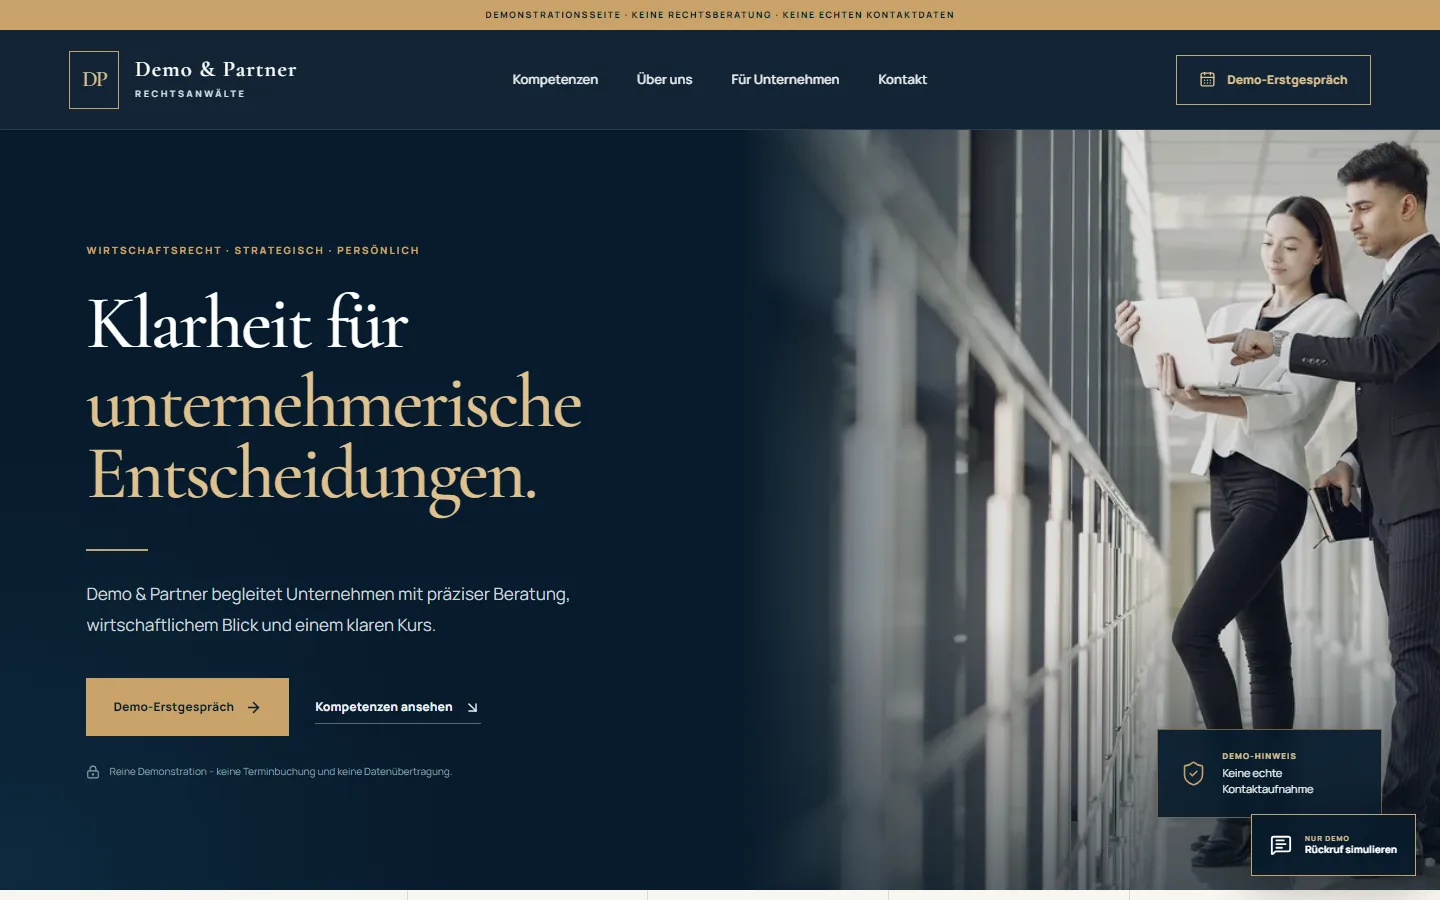
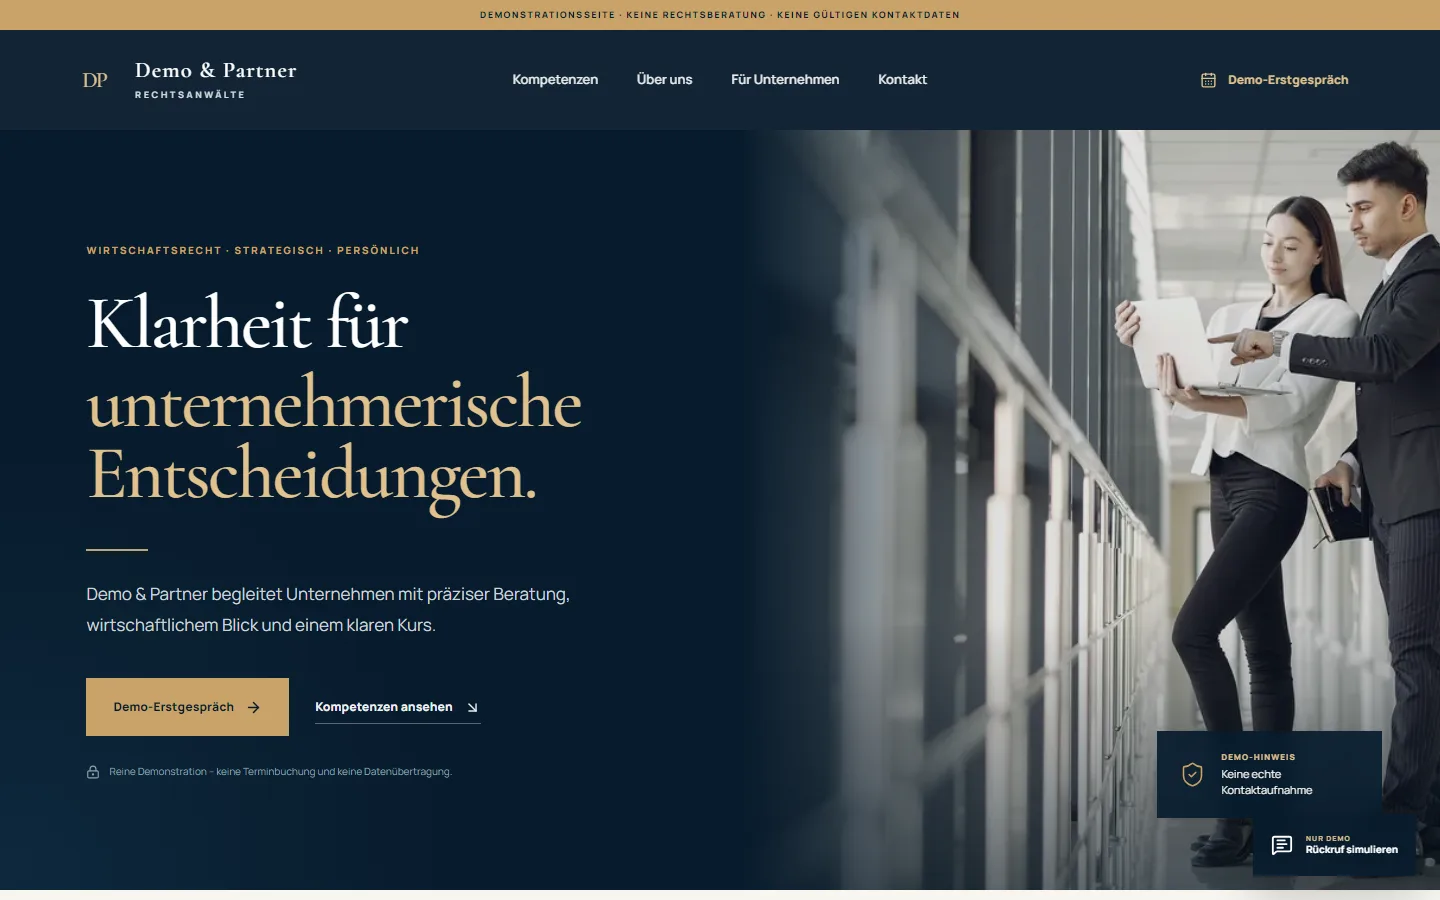
0.66.0 — the drawn cursor is the only cursor, a quicker scrollbar, fresh demos
- The native pointer is hidden on the whole page while the custom cursor
  runs; dot and ring are manual popovers in the top layer and re-raised
  when a dialog or popover opens, so a modal never covers the only cursor.
- Floating scrollbar: springs at 0.16–0.18 s, a navy pill with the site's
  hard shadow (bordeaux while held). Hidden it now stops at the window
  edge; 0.64 pushed it 4px past it, which audit:ux caught as overflow.
- Keyboard pass over the home page (117 tab stops, none hidden; assistant,
  service list, FAQ, lightbox, price switch, a11y tools, shelf, mobile
  menu all operable) — no change needed beyond the overflow.
- demos:sync: new captures of demo1/demo3, demo3's SVG icon. demo4/demo5
  stay hidden (certificate expired / wrong name).

diff --git a/src/components/islands/CustomCursor.tsx b/src/components/islands/CustomCursor.tsx
@@ -10,6 +10,14 @@ import { absorbStep, actionTarget, CURSOR_ABSORB_ATTR } from "~/lib/cursorAbsorb
  * ones) by sampling the background luminance under the pointer, mirroring the
  * approach in FloatingCta.astro. The native cursor stays visible underneath.
  *
+ * It IS the cursor (2026-10-05): while it runs the native pointer is hidden
+ * on the whole page (`data-cursor-absorb` in `styles/global.css`), and the
+ * dot — pinned to the pointer, so it is the hotspot — is what the visitor
+ * aims with. Ring and dot are MANUAL POPOVERS so they live in the top layer:
+ * a modal dialog or the accessibility popover is in the top layer too and
+ * would otherwise cover the only visible cursor. Each time something enters
+ * the top layer they are re-shown, which puts them back on top of it.
+ *
  * Over a button that performs an action it DISAPPEARS INTO it (2026-10-05,
  * `lib/cursorAbsorb.ts`): dot and ring fly to the button's centre and shrink
  * to nothing on a spring, the native pointer is hidden there, and on leaving
@@ -36,6 +44,35 @@ export default function CustomCursor() {
     // so touch and reduced motion keep it.
     const root = document.documentElement;
     root.setAttribute(CURSOR_ABSORB_ATTR, "");
+
+    // Into the top layer, and back on top whenever a dialog or popover opens
+    // after them. No popover support: they stay ordinary fixed elements, and
+    // the CSS keeps the native pointer over a modal (see global.css).
+    const canPopover = typeof ring.showPopover === "function";
+    const raise = () => {
+      if (!canPopover) return;
+      for (const el of [ring, dot]) {
+        try {
+          if (el.matches(":popover-open")) el.hidePopover();
+          el.showPopover();
+        } catch {
+          // A popover that is mid-transition or detached refuses; harmless.
+        }
+      }
+    };
+    raise();
+    // A modal opened with showModal() sets `open`; popovers fire `toggle`,
+    // which does not bubble — hence capture.
+    const topLayerWatch = new MutationObserver((records) => {
+      if (records.some((r) => r.target instanceof HTMLDialogElement && r.target.open)) raise();
+    });
+    topLayerWatch.observe(document.body, { subtree: true, attributes: true, attributeFilter: ["open"] });
+    const onToggle = (event: Event) => {
+      const target = event.target;
+      if (target === ring || target === dot) return;
+      if ((event as ToggleEvent).newState === "open") raise();
+    };
+    document.addEventListener("toggle", onToggle, true);
 
     let mouseX = window.innerWidth / 2;
     let mouseY = window.innerHeight / 2;
@@ -215,6 +252,8 @@ export default function CustomCursor() {
 
     return () => {
       root.removeAttribute(CURSOR_ABSORB_ATTR);
+      topLayerWatch.disconnect();
+      document.removeEventListener("toggle", onToggle, true);
       cancelAnimationFrame(raf);
       window.removeEventListener("mousemove", onMove);
       document.removeEventListener("mouseleave", onLeave);
@@ -239,12 +278,14 @@ export default function CustomCursor() {
           inside the circle, which is what the preview is for. */}
       <div
         ref={ringRef}
+        popover="manual"
         className="tds-cursor-ring"
         aria-hidden="true"
         data-theme-preview="skip"
       />
       <div
         ref={dotRef}
+        popover="manual"
         className="tds-cursor-dot"
         aria-hidden="true"
         data-theme-preview="skip"

diff --git a/src/styles/global.css b/src/styles/global.css
@@ -498,36 +498,47 @@ html:has(body[data-lenis="on"]) {
   height: 24px;
   background-color: color-mix(in srgb, var(--cursor-tint) 42%, transparent);
 }
-/* The cursor disappears into an action control (lib/cursorAbsorb.ts): while
-   the custom cursor runs, the native pointer is hidden over the same targets
-   `ACTION_SELECTOR` names, so the drawn dot and ring are the only cursor —
-   and they fly into the button. Descendants too: an icon or label inside a
-   button would otherwise bring back its own `cursor: pointer`. Keep this list
-   in step with `ACTION_SELECTOR`; `cursorAbsorb.test.ts` compares them. */
-html[data-cursor-absorb]
-  :is(
-    button:not(:disabled),
-    [role="button"],
-    input[type="submit"]:not(:disabled),
-    input[type="button"]:not(:disabled),
-    input[type="reset"]:not(:disabled),
-    summary,
-    .btn,
-    [data-cta]
-  ):not(.page-scrollbar *),
-html[data-cursor-absorb]
-  :is(
-    button:not(:disabled),
-    [role="button"],
-    input[type="submit"]:not(:disabled),
-    input[type="button"]:not(:disabled),
-    input[type="reset"]:not(:disabled),
-    summary,
-    .btn,
-    [data-cta]
-  ):not(.page-scrollbar *)
-  * {
-  cursor: none;
+/* The drawn cursor IS the cursor (2026-10-05): while `CustomCursor` runs,
+   the native pointer is hidden on the whole page, descendants and
+   pseudo-elements included — `!important` because components set their own
+   `cursor` (grab, pointer, text) and every one of them would bring the
+   arrow back. Over an action control the drawn cursor then disappears into
+   it (lib/cursorAbsorb.ts). Without popover support the drawn cursor cannot
+   rise above a modal, so there the native pointer stays while one is open. */
+html[data-cursor-absorb],
+html[data-cursor-absorb] *,
+html[data-cursor-absorb] *::before,
+html[data-cursor-absorb] *::after {
+  cursor: none !important;
+}
+@supports not selector(:popover-open) {
+  html[data-cursor-absorb]:has(dialog:modal),
+  html[data-cursor-absorb]:has(dialog:modal) * {
+    cursor: auto !important;
+  }
+}
+/* The two cursor parts are manual popovers (top layer). Undo the UA popover
+   box — centred, bordered, padded, painted — so they stay what they were. */
+.tds-cursor-ring[popover],
+.tds-cursor-dot[popover] {
+  inset: 0 auto auto 0;
+  margin: 0;
+  padding: 0;
+  border: 0;
+  overflow: visible;
+  color: inherit;
+}
+.tds-cursor-ring[popover] {
+  background-color: color-mix(in srgb, var(--cursor-tint) 20%, transparent);
+}
+.tds-cursor-ring[popover].is-hover {
+  background-color: color-mix(in srgb, var(--cursor-tint) 30%, transparent);
+}
+.tds-cursor-ring[popover].is-down {
+  background-color: color-mix(in srgb, var(--cursor-tint) 42%, transparent);
+}
+.tds-cursor-dot[popover] {
+  background-color: var(--cursor-tint);
 }
 /* No custom cursor where there's no fine pointer or motion is reduced. */
 @media (pointer: coarse) {

diff --git a/src/lib/motion/pageScrollbar.ts b/src/lib/motion/pageScrollbar.ts
@@ -19,9 +19,14 @@
  */
 type Dom = typeof import("@tracht-digital-solutions/tds-shared/motion/dom");
 
-const IN = { type: "spring", bounce: 0.2, visualDuration: 0.32 } as const;
-const GROW = { type: "spring", bounce: 0.4, visualDuration: 0.36 } as const;
-const OUT = { duration: 0.22, ease: [0.4, 0, 1, 1] } as const;
+/**
+ * Fast on purpose (2026-10-05, "schneller"): the bar answers a pointer that is
+ * already on its way to it, so anything longer than ~0.2 s arrives after the
+ * pointer and reads as lag. The site's other controls settle in the same band.
+ */
+const IN = { type: "spring", bounce: 0.15, visualDuration: 0.16 } as const;
+const GROW = { type: "spring", bounce: 0.3, visualDuration: 0.18 } as const;
+const OUT = { duration: 0.12, ease: [0.4, 0, 1, 1] } as const;
 
 /** Thumb width and arrow size per state, as scales of their full size. */
 const SIZE = {
@@ -38,12 +43,12 @@ export function mountPageScrollbar({ animate }: Dom): void {
   if (!pill) return;
 
   // Start from the CURRENT state, written inline: Motion reads a start value
-  // from the inline style, and the CSS state's `translateX(10px)` would be
+  // from the inline style, and the CSS state's `translateX(6px)` would be
   // replaced by Motion's own transform at x = 0 — the first slide-in would
   // have no slide.
   let previous = (rail.dataset.state ?? "hidden") as keyof typeof SIZE;
   const now = { duration: 0 } as const;
-  void animate(rail, previous === "hidden" ? { opacity: 0, x: 10 } : { opacity: 1, x: 0 }, now);
+  void animate(rail, previous === "hidden" ? { opacity: 0, x: 6 } : { opacity: 1, x: 0 }, now);
   void animate(pill, { scaleX: SIZE[previous].pill }, now);
   for (const arrow of arrows) void animate(arrow, { scale: SIZE[previous].arrow }, now);
 
@@ -53,7 +58,7 @@ export function mountPageScrollbar({ animate }: Dom): void {
     if (state === previous) return;
     const size = SIZE[state];
     if (state === "hidden") {
-      void animate(rail, { opacity: 0, x: 10 }, OUT);
+      void animate(rail, { opacity: 0, x: 6 }, OUT);
     } else if (previous === "hidden") {
       void animate(rail, { opacity: 1, x: 0 }, IN);
     }

diff --git a/src/lib/cursorAbsorb.test.ts b/src/lib/cursorAbsorb.test.ts
@@ -2,22 +2,13 @@ import { readFileSync } from "node:fs";
 import { resolve } from "node:path";
 import { describe, expect, it } from "vitest";
 
-import { ACTION_SELECTOR, absorbStep } from "./cursorAbsorb";
+import { absorbStep } from "./cursorAbsorb";
 
 const css = readFileSync(resolve(process.cwd(), "src/styles/global.css"), "utf8");
 
 describe("the cursor disappearing into action controls (2026-10-05)", () => {
-  it("hides the native pointer over exactly the targets the island absorbs into", () => {
-    const block = css.slice(css.indexOf("html[data-cursor-absorb]"), css.indexOf("cursor: none;"));
-    const lists = [...block.matchAll(/:is\(([\s\S]*?)\)\s*:not/g)].map((match) =>
-      match[1]!
-        .split(",")
-        .map((part) => part.trim().replace(/"/g, "'"))
-        .filter(Boolean),
-    );
-    const expected = ACTION_SELECTOR.split(",").map((part) => part.trim());
-    expect(lists).toHaveLength(2);
-    for (const list of lists) expect(list).toEqual(expected);
+  it("hides the native pointer on the whole page while the drawn cursor runs", () => {
+    expect(css).toMatch(/html\[data-cursor-absorb\] \*,[\s\S]*?cursor: none !important;/);
   });
 
   it("swallows the cursor and lets it pop back out past its size", () => {

diff --git a/src/lib/cursorAbsorb.ts b/src/lib/cursorAbsorb.ts
@@ -6,9 +6,9 @@
  * pointer has left. `islands/CustomCursor.tsx` does the drawing: its dot and
  * ring fly to the button's centre and shrink to nothing on a spring, and pop
  * back out to the pointer with a little overshoot. While the custom cursor
- * runs, the NATIVE pointer is hidden over these targets
- * (`html[data-cursor-absorb]` in `styles/global.css`) — otherwise nothing
- * would have disappeared at all.
+ * runs, the NATIVE pointer is hidden on the whole page
+ * (`html[data-cursor-absorb]` in `styles/global.css`), so the drawn cursor
+ * is the only one — and it is what disappears.
  *
  * "Does something" means a control, not navigation and not a field: buttons,
  * button roles, submit inputs, disclosure summaries, and the links that are

diff --git a/AGENTS.md b/AGENTS.md
@@ -428,15 +428,18 @@ visual language rather than rebuilding it locally:
     submit, `summary`, `.btn` or `[data-cta]` the dot and ring fly to its
     centre and shrink to nothing on a spring, and pop back out on leaving.
     While the custom cursor runs (`data-cursor-absorb` on <html>) the native
-    pointer is `cursor: none` over the same list in `global.css` —
-    `cursorAbsorb.test.ts` keeps the two lists equal. Touch and reduced
-    motion keep the native pointer.
+    pointer is `cursor: none !important` on the WHOLE page — the drawn dot
+    is the hotspot. Dot and ring are `popover="manual"` and re-shown when a
+    dialog or popover opens, or a modal would cover the only cursor. Touch
+    and reduced motion keep the native pointer.
   - **the page scrollbar** (`pageScrollbar.ts`, 2026-10-05): with a mouse
     the native bar is switched off in <head> (`data-page-scrollbar`) and
     `components/PageScrollbar.astro` floats an arrow–thumb–arrow bar over the
     content, invisible until the pointer is within 72 px of the right edge.
     `data-state` hidden/shown/active works in CSS alone (also reduced
-    motion); Motion slides it in and widens thumb and arrows on the bar.
+    motion); Motion slides it in and widens thumb and arrows on the bar,
+    fast (≤ 0.18 s). Navy pill with the hard shadow, bordeaux while held.
+    Hidden, it slides only to the window edge (6px) — further is overflow.
     Touch and `bare` pages keep the native bar.
   - **the generated photos** (`[data-motion-image]`, `images.ts`): settle
     from a larger scale when they scroll in, then drift ±20 px. Transform
